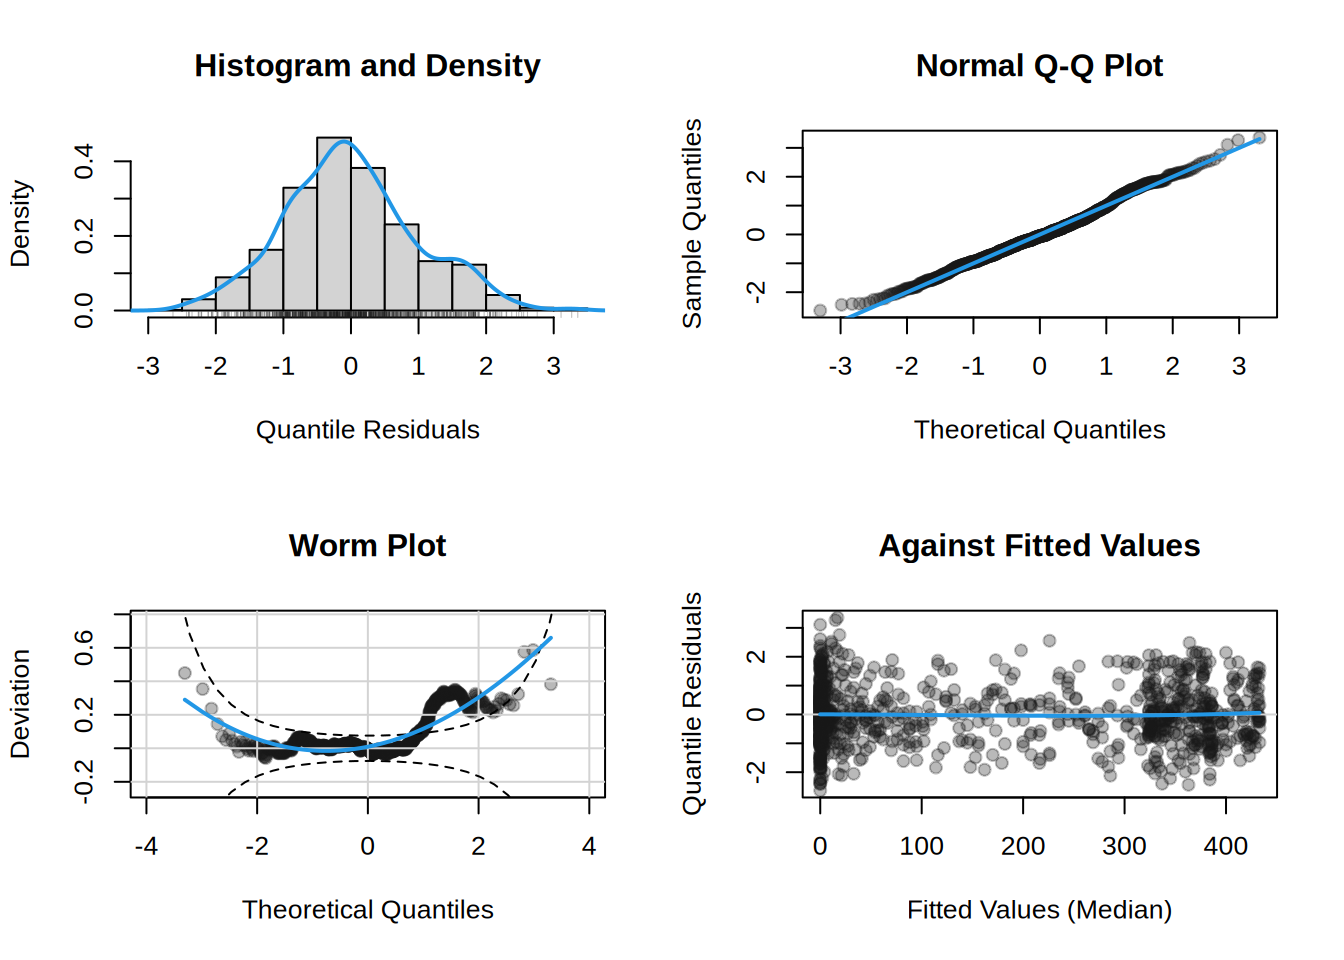
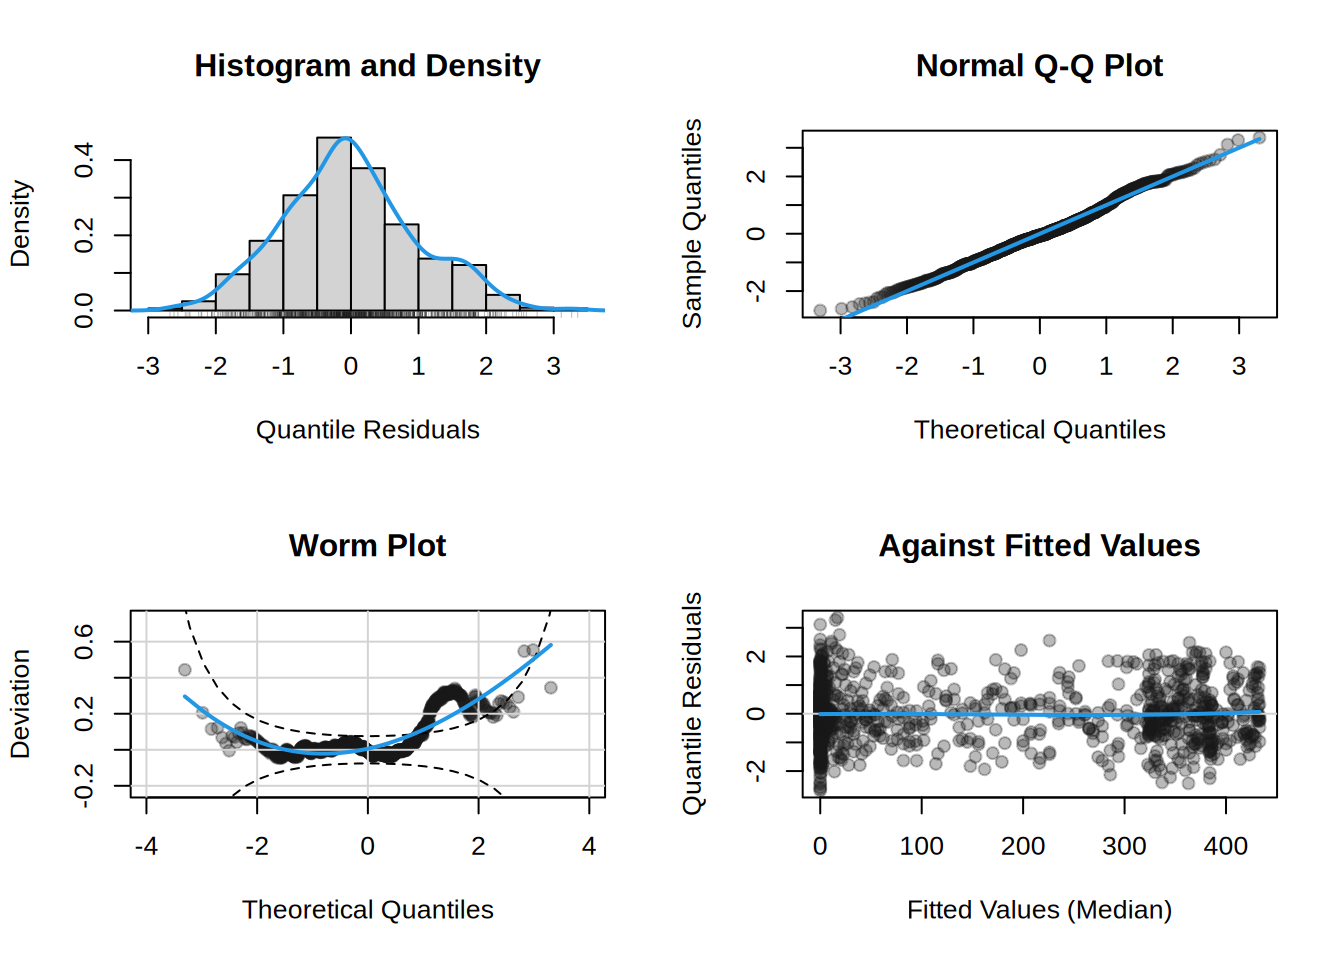
Deploying to gh-pages from @ gamlss-dev/gamlss2@b36f611c176bba16359b47bbd6fb9fa13dea7867 🚀

diff --git a/man/prodist.gamlss2.html b/man/prodist.gamlss2.html
@@ -666,10 +666,10 @@ GAMLSS-RS iteration  2: Global Deviance = 405.7368 eps = 0.000000     </code></p
 <div class="code-copy-outer-scaffold"><div class="sourceCode cell-code" id="cb16"><pre class="sourceCode r code-with-copy"><code class="sourceCode r"><span id="cb16-1"><a href="#cb16-1" aria-hidden="true" tabindex="-1"></a><span class="do">## simulate random numbers</span></span>
 <span id="cb16-2"><a href="#cb16-2" aria-hidden="true" tabindex="-1"></a><span class="fu">random</span>(d, <span class="dv">5</span>)</span></code></pre></div><button title="Copy to Clipboard" class="code-copy-button"><i class="bi"></i></button></div>
 <div class="cell-output cell-output-stdout">
-<pre><code>       r_1      r_2       r_3       r_4       r_5
-1 16.86036 33.73472  32.96906  19.42516  37.96723
-2 90.32971 49.11643  27.88096  62.47815  72.94279
-3 92.77143 96.61214 129.65036 108.58009 187.59126</code></pre>
+<pre><code>        r_1      r_2      r_3      r_4      r_5
+1  19.17519 31.83698 25.44524 17.34779 27.22565
+2  88.49773 68.77767 42.10353 69.60533 42.80299
[phone redacted].85680 73.67934 46.95715 30.71829</code></pre>
 </div>
 <div class="code-copy-outer-scaffold"><div class="sourceCode cell-code" id="cb18"><pre class="sourceCode r code-with-copy"><code class="sourceCode r"><span id="cb18-1"><a href="#cb18-1" aria-hidden="true" tabindex="-1"></a><span class="do">## density and distribution</span></span>
 <span id="cb18-2"><a href="#cb18-2" aria-hidden="true" tabindex="-1"></a><span class="fu">pdf</span>(d, <span class="dv">50</span> <span class="sc">*</span> <span class="sc">-</span><span class="dv">2</span><span class="sc">:</span><span class="dv">2</span>)</span></code></pre></div><button title="Copy to Clipboard" class="code-copy-button"><i class="bi"></i></button></div>

diff --git a/man/gamlss2.html b/man/gamlss2.html
@@ -732,7 +732,7 @@ edf  4.5885     2.6274
 *--------
 n = 610 df =  11.22 res.df =  598.78
 Deviance = 4772.1489 Null Dev. Red. = 33.37%
-AIC = 4794.5805 elapsed =  0.86sec</code></pre>
+AIC = 4794.5805 elapsed =  0.89sec</code></pre>
 </div>
 <div class="code-copy-outer-scaffold"><div class="sourceCode cell-code" id="cb5"><pre class="sourceCode r code-with-copy"><code class="sourceCode r"><span id="cb5-1"><a href="#cb5-1" aria-hidden="true" tabindex="-1"></a><span class="do">## plot parameter-specific effects</span></span>
 <span id="cb5-2"><a href="#cb5-2" aria-hidden="true" tabindex="-1"></a><span class="fu">plot</span>(m1, <span class="at">which =</span> <span class="st">"effects"</span>)</span></code></pre></div><button title="Copy to Clipboard" class="code-copy-button"><i class="bi"></i></button></div>
@@ -807,7 +807,7 @@ edf     6.3823        6.2095
 *--------
 n = 1057 df =  14.59 res.df =  1042.41
 Deviance = 10150.8818 Null Dev. Red. = 12.62%
-AIC = 10180.0654 elapsed =  0.27sec</code></pre>
+AIC = 10180.0654 elapsed =  0.28sec</code></pre>
 </div>
 <div class="code-copy-outer-scaffold"><div class="sourceCode cell-code" id="cb12"><pre class="sourceCode r code-with-copy"><code class="sourceCode r"><span id="cb12-1"><a href="#cb12-1" aria-hidden="true" tabindex="-1"></a><span class="do">## effect plots</span></span>
 <span id="cb12-2"><a href="#cb12-2" aria-hidden="true" tabindex="-1"></a><span class="fu">plot</span>(m2)</span></code></pre></div><button title="Copy to Clipboard" class="code-copy-button"><i class="bi"></i></button></div>